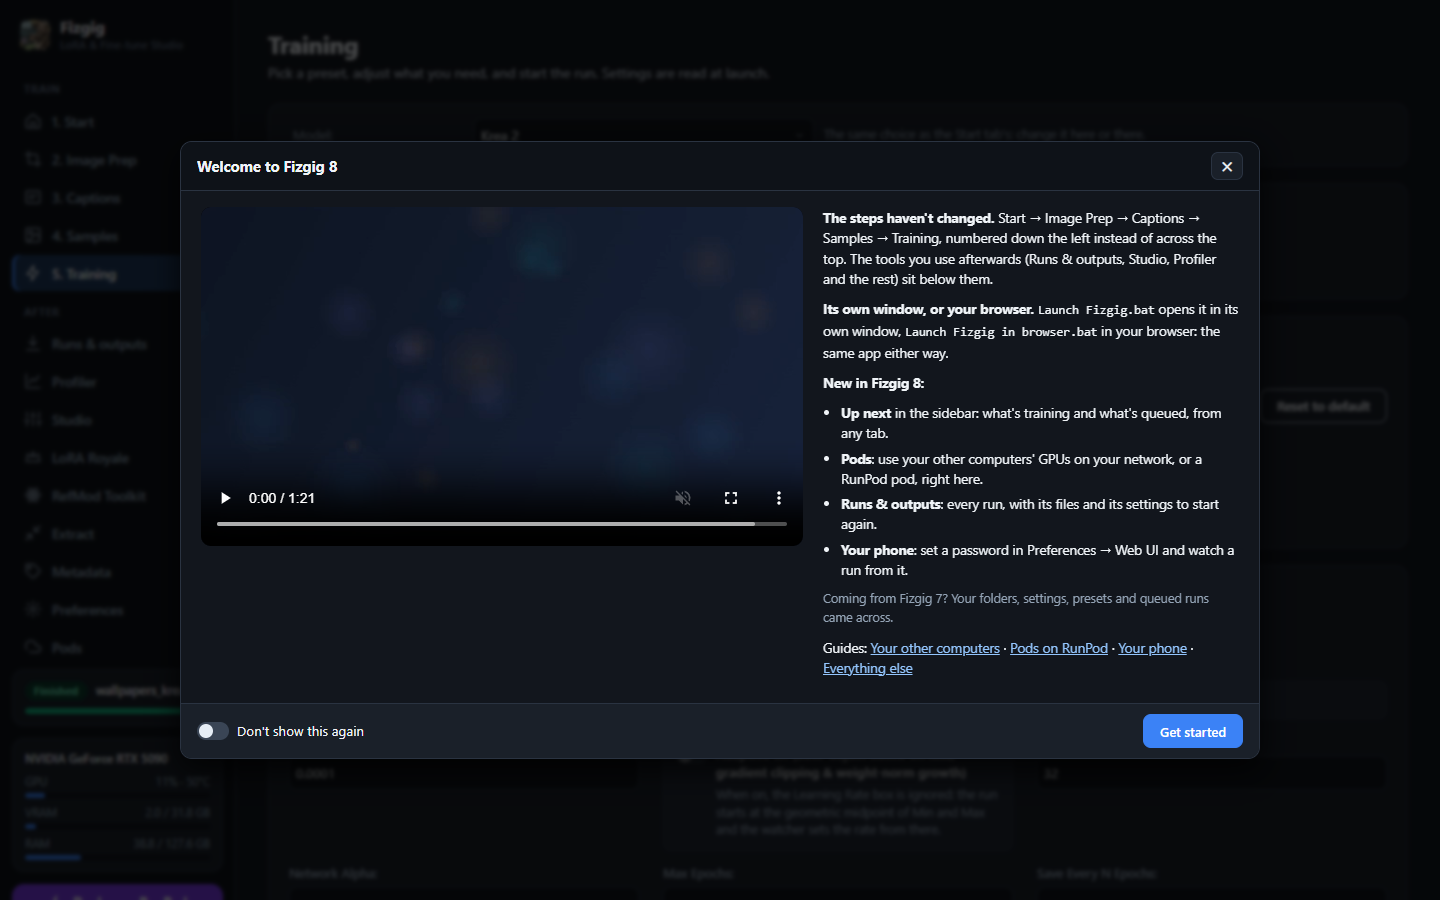
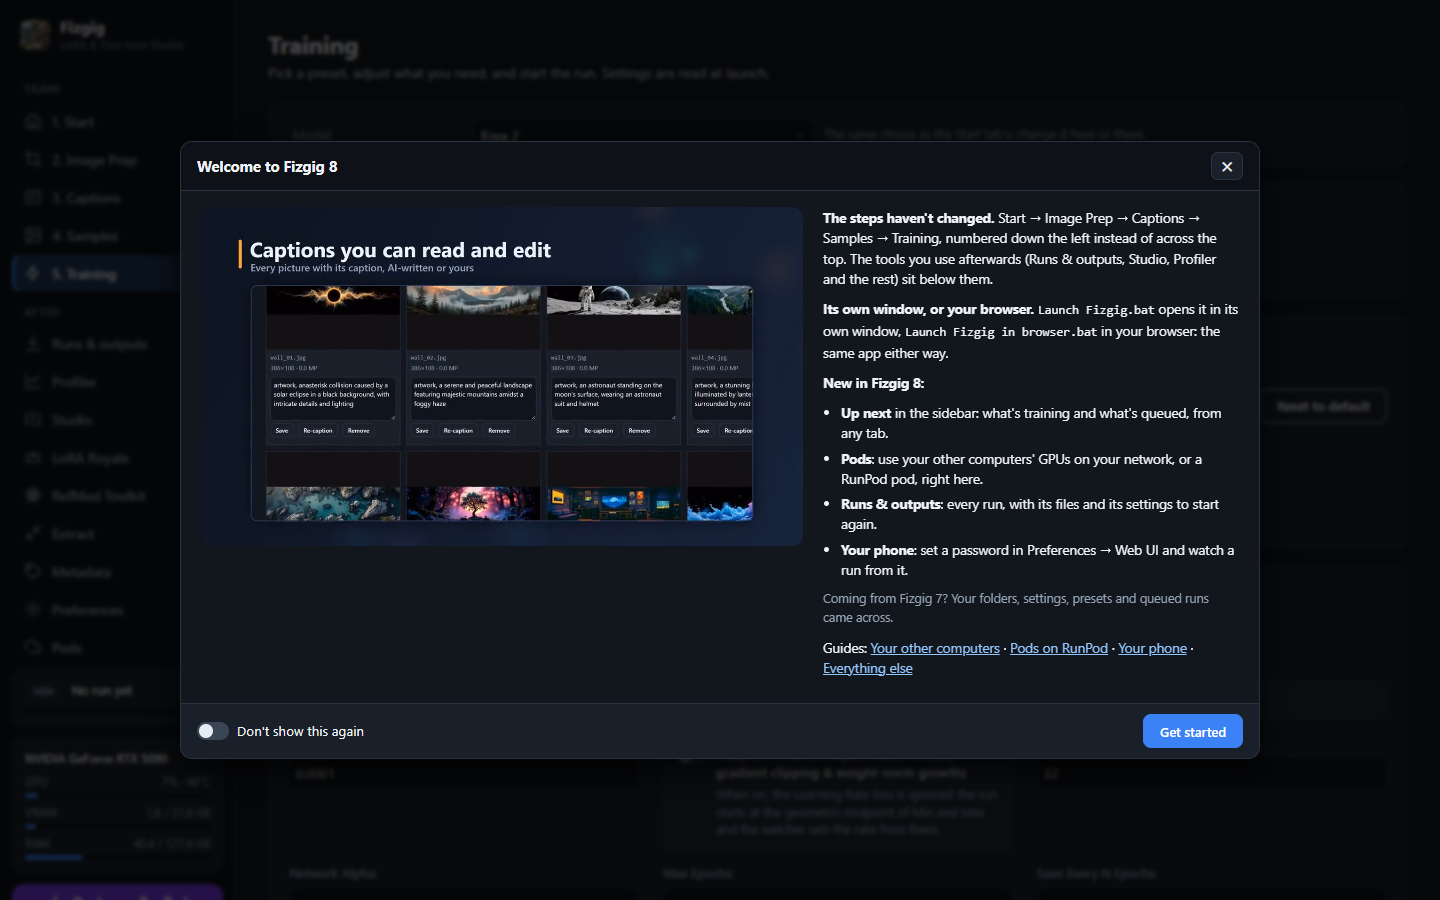
Welcome: the tour video seeks (it is served in ranges, so dragging along it no longer jumps back to the start); its screenshot shows a scene
Claude-Session: https://claude.ai/code/session_01CyQXvXNaeqiZMF27xCp2nF

Changed region(s): [[0.125, 0.2489, 0.5625, 0.6222], [0.0312, 0.7467, 0.125, 0.8089], [0.1875, 0.4044, 0.25, 0.4667]]

diff --git a/src/fizgig/web/server.py b/src/fizgig/web/server.py
@@ -2025,7 +2025,7 @@ class Handler(BaseHTTPRequestHandler):
                      if key and self.password and hmac.compare_digest((qs.get("app_key") or [""])[0], key) else [])
             return self._send(200, page.encode("utf-8"), "text/html; charset=utf-8", extra=extra)
         if path == "/welcome.mp4":                  # the welcome popup's tour (it ships with Fizgig: no network)
-            return self._file(os.path.join(STATIC_DIR, "welcome_v8.mp4"), "video/mp4")
+            return self._stream(os.path.join(STATIC_DIR, "welcome_v8.mp4"), attachment=False)  # ranged: it seeks
         if path in ("/app.js", "/style.css"):
             return self._file(os.path.join(STATIC_DIR, path[1:]),
                               "application/javascript; charset=utf-8" if path.endswith(".js") else "text/css")
